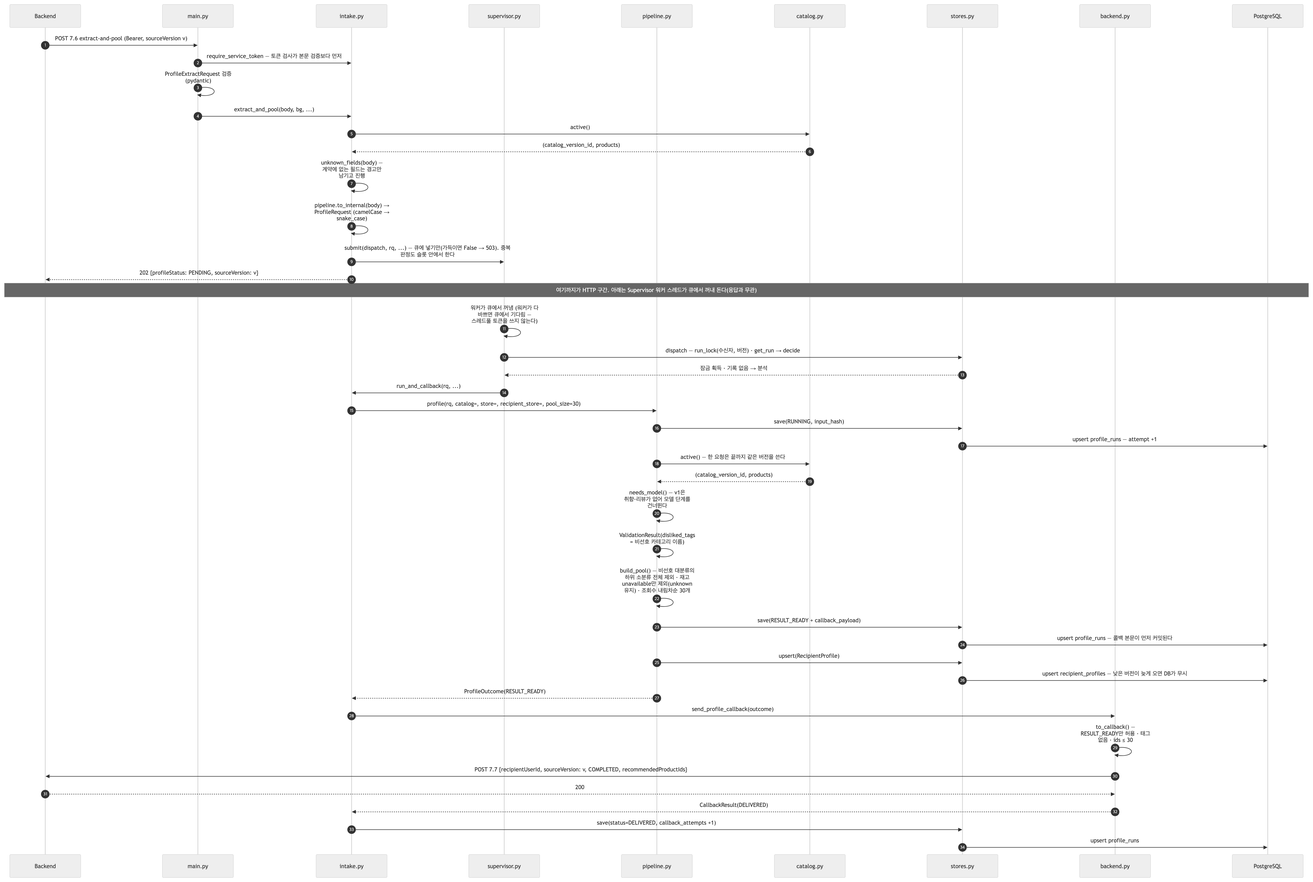
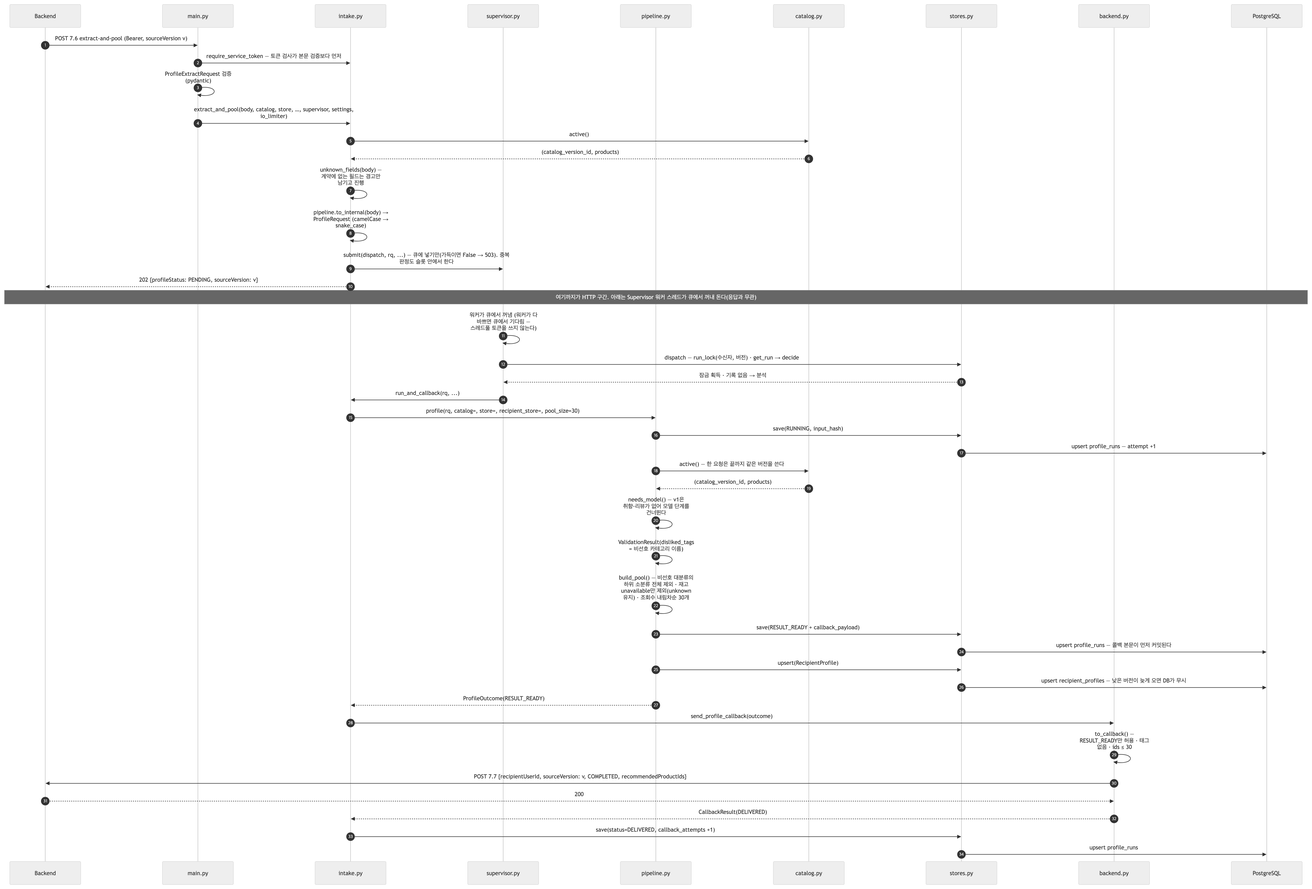
docs(profiling): 낡은 문장 정정 — README 상태·0004·시험 수 51 · 코드_안내서 CallbackResult·extra 정책·DB 기본 · 이름_대조표 예정 해제 · 시퀀스_전체 0004·서명·재시도 완료 · 필드표 v1/v2 · BE_전달 503 두 가지·즉시 3회·AUTOCOMMIT · FE 시나리오 · 환경_설정 · loadtest README · 문서_목록 §4 ⑥
- 학습 가이드를 쓰며 기존 문서를 코드(a5d1929)와 대조해 어긋난 문장 열여섯 곳을 고쳤다. 무엇이 틀렸었는지는 문서_목록 §4 ⑥ 표
- 시퀀스_전체 §2·§3 그림 2장 재렌더(migration 0004 · extract_and_pool 현재 서명)
- BE_전달_2026-09-27 은 본문을 고치고 H1 아래 "정정 2026-09-29" 한 줄로 09-27 판과의 차이(넷)를 표시
- 코드 주석 드리프트는 고치지 않고 학습_가이드/09 §12 표에만 모아 둠(다음 코드 정리 커밋의 입력)

diff --git a/profiling/이름_대조표.md b/profiling/이름_대조표.md
@@ -1,9 +1,9 @@
 # 이름 대조표 — 같은 뜻, 다른 이름
 
-> 2026-09-21 기준, **지금 작성된 코드**만 훑었다(`src/profiling/**`, `tools/fake_backend/app.py`). 아직 골격만 있는 것(v3 함수)은 docstring에 적힌 이름을 "(예정)"으로 표시.
+> 2026-09-21 작성, 2026-09-29 갱신(v1 구현이 끝나 "(예정)" 표시를 걷어냈다). 훑은 범위는 `src/profiling/**`, `tools/fake_backend/app.py`. v3 함수처럼 아직 골격만 있는 것만 "(예정)".
 > 규칙: 바깥 계약(`schemas.py`, `fake_backend`)은 **camelCase** = 문서 1 그대로. 내부(`types.py`·`pipeline.py`·`stores.py` 등)는 **snake_case**. 변환은 `pipeline.to_internal()`과 `backend.to_callback()` 두 곳뿐.
 
-파일 약칭: `S`=schemas.py · `T`=types.py · `P`=pipeline.py · `PO`=ports.py · `A`=intake.py(Transport) · `M`=main.py · `C`=settings.py · `CF`=catalog.py · `SM`=stores.py · `SD`=stores.py · `RD`=stores.py · `RP`=types.py · `B`=backend.py · `SV`=supervisor.py · `F`=tools/fake_backend/app.py
+파일 약칭: `S`=schemas.py · `T`=types.py · `P`=pipeline.py · `PO`=ports.py · `A`=intake.py(Transport) · `M`=main.py · `C`=settings.py · `CF`=catalog.py· `SD`=stores.py · `RD`=stores.py · `RP`=types.py · `B`=backend.py · `SV`=supervisor.py · `F`=tools/fake_backend/app.py
 
 > **2026-09-22 DB 전환**: `DbProfileRunStore`(SD)·`DbRecipientProfileStore`(RD) 신설, `ProfileOutcome`에 `input_hash`·`callback_attempts`, `RecipientProfile.explicit_disliked_category_ids`→`disliked_categories`, `catalog_version_id` int→UUID, `settings.STORE`. DB 열 이름 = 내부 snake_case 그대로(JSONB 키 포함). 설명: [docs/DB_전환_설명.md](docs/DB_전환_설명.md)
 
@@ -16,7 +16,7 @@
 | 뜻 | 이름 | 형 | 파일 | 비고 |
 |---|---|---|---|---|
 | 수신자 ID | `recipientUserId` | int >0 | S(`ProfileExtractRequest`·`ProfileAccepted`·`ProfileCallbackRequest`·`ProfileCallbackAccepted`), F(경로 `{recipientUserId}` + 본문) | 문서 1 이름 |
-| | `recipient_user_id` | int | T(`ProfileRequest`·`ProfileOutcome`), PO(`ProfileRunStore.get` 인자), SM(`_items` 키, 예정), P(`to_internal`) | |
+| | `recipient_user_id` | int | T(`ProfileRequest`·`ProfileOutcome`), PO(`ProfileRunStore.get` 인자), P(`to_internal`) | |
 | | `rid` | int | A(`run_and_callback` 지역 변수) | 로그용 축약 |
 | 등록 데이터 버전 | `sourceVersion` | int ≥0 | S(7.6·7.7 요청·응답), F | AI는 값을 바꾸지 않고 되돌려 줌 |
 | | `source_version` | int | T(`ProfileRequest`·`ProfileOutcome`), P, A(로그) | |
@@ -52,7 +52,7 @@
 | 상품 ID | `productId` | int >0 | S(`ReviewDto`·`ProductRecord`), T(`DraftItem`·`Decision`의 **alias**) | |
 | | `product_id` | int | T(`Review`·`ReviewWithProduct`·`DraftItem`·`Decision`), PO(`CatalogReader.by_id` 인자) | `DraftItem`·`Decision`은 `populate_by_name`으로 두 이름 다 받음 |
 | 추천 상품 ID 목록 | `recommendedProductIds` | `list[int]` ≤30 | S(`ProfileCallbackRequest`), F | 7.7 본문. 순서 = 순위 |
-| | `product_ids` | `list[int]` ≤30 | T(`SearchResult`) | `to_callback`(B, 예정)에서 위 이름으로 |
+| | `product_ids` | `list[int]` ≤30 | T(`SearchResult`) | `to_callback`(B)에서 위 이름으로 |
 | 상품 한 건(7.9) | `ProductRecord` {`productId`, `name`, `brand`, `description`, `categoryId`, `categoryName`, `parentCategoryId`·`parentCategoryName`(대분류, DB 조인·선택), `price`, `availability`(재고 3값 `available`·`unavailable`·`unknown` — 7.9의 boolean `available`을 이 이름으로 받는다, 검색기와 같은 형), `updatedAt`, **`viewCount`**(조회수, 기본 0 — v1 정렬 키, 기준 논의 중)} | | S, PO(`active`·`by_id` 반환), CF(예정) | 내부에서도 이 DTO를 그대로 씀 — 내부 상품 형은 따로 없음 |
 | 7.9 응답 | `ProductExportData` {`generatedAt`, `products`}, `ProductExportResponse` | | S | 아직 아무 데서도 안 씀 |
 | 상품 설명 | `description` | `str \| None` | S(`ProductRecord`), T(`ReviewWithProduct`) | 실험 코드의 `desc`는 서비스에 없음 |
@@ -60,10 +60,10 @@
 | 카탈로그 버전 ID | `catalog_version_id` | UUID | T(`SearchResult`) | 팀원 `ai_search.catalog_versions.id`와 같은 타입. 파일 카탈로그는 고정값 `…0001` |
 | | `version_id` | int | PO(`active()` 반환 튜플 첫째, docstring), M(`lifespan`·`health` 지역 변수) | 같은 값 |
 | | `version` | int | M(`/health` 응답 키) | |
-| 활성 카탈로그 상품 전체 | `products` | `list[ProductRecord]` | PO(`active()` 반환 둘째), M, P(`build_pool` 인자, 예정) | |
+| 활성 카탈로그 상품 전체 | `products` | `list[ProductRecord]` | PO(`active()` 반환 둘째), M, P(`build_pool` 인자) | |
 | 카탈로그 파일 경로 | `CATALOG_FILE` | `Path` | C | |
-| | `path` | `Path` | CF(`FileCatalogReader.__init__`, 예정) | |
-| 활성 카탈로그 없음 | `NoActiveCatalog` | Exception | PO(정의), A(503), M(`_NoCatalog`·`/health`), CF(예정), P(docstring) | |
+| | `path` | `Path` | CF(`FileCatalogReader.__init__`) | |
+| 활성 카탈로그 없음 | `NoActiveCatalog` | Exception | PO(정의), A(503), M(`_NoCatalog`·`/health`), CF·CD(파일 없음·활성 버전 없음), P(docstring) | |
 
 ## 4. 추출·검증 결과 (v3에서 채워짐, v1은 빈 값)
 
@@ -99,7 +99,7 @@
 | 요청 본문 해시 | `input_hash` | `str \| None` (sha256 hex) | T(`ProfileOutcome`), P(`input_hash(rq)`), SD(NOT NULL 열) | 비선호는 ID 순 정렬 후 해시 — 같은 키·다른 입력 감지 |
 | 콜백 시도 수 | `callback_attempts` | int | T(`ProfileOutcome`), A(콜백 뒤 +실제 시도 수 — 5xx면 즉시 재시도 포함), SD(`greatest`) | BE 쪽 대응은 `profiles.retry_count`(같은 번호 재시도 횟수 — 접수 실패·결과 미도달 합산, 최대 2 · 09-27) — 세는 대상이 달라 값이 같지 않다 |
 | 콜백 본문(저장용) | `callback_payload` · `callback_hash` | jsonb · text | SD 열 — 값은 B `callback_body(outcome)`로 만듦 | 전송(`to_callback`)과 같은 함수 → 재전송이 같은 payload |
-| 프롬프트·검증기 판 | `prompt_version` · `validator_version` | `str \| None` | T(`ProfileOutcome`), P(v1: `None`·`"v1-skip"` 예정) | 관측 라벨 |
+| 프롬프트·검증기 판 | `prompt_version` · `validator_version` | `str \| None` | T(`ProfileOutcome`), P(v1: `prompt_version=None` · `validator_version="v1-skip"` = `VALIDATOR_VERSION_V1`) | 관측 라벨 |
 
 ## 6. 결과 객체와 포트
 
@@ -109,7 +109,7 @@
 | 수신자 프로필 행 | `profile` | `RecipientProfile` | RP, PO(`upsert` 인자), RD | = `recipient_profiles` 한 행. `from_outcome(rq, outcome)`으로 만듦 |
 | 카탈로그 포트 | `catalog` | `CatalogReader` | A(`get_catalog` 반환·`run_and_callback` 인자), M(`app.state.catalog`), P(`profile` 키워드 인자) | 구현: `FileCatalogReader`(CF) · `_NoCatalog`(M, 대역) |
 | 실행 기록 포트 | `store` | `ProfileRunStore` | A(`get_store`), M(`app.state.store`), P | 구현: `DbProfileRunStore`(SD) |
-| 수신자 프로필 포트 | `recipient_store` | `RecipientProfileStore \| None` | A(`get_recipient_store`), M(`app.state.recipient_store`), P(`profile` 키워드 인자) | 구현: `DbRecipientProfileStore`(RD). memory 모드는 `None` → 저장 생략 |
+| 수신자 프로필 포트 | `recipient_store` | `RecipientProfileStore` | A(`get_recipient_store`), M(`app.state.recipient_store`), P(`profile` 키워드 인자) | 구현: `DbRecipientProfileStore`(RD) — 항상 있다(DB 전용, `None` 경로 없음) |
 | DB 엔진 | `engine` | `sqlalchemy.Engine` | M(`app.state.engine`, `_connect_db`), SD·RD(생성자 인자) | 시작 시 연결 확인, 종료 시 dispose |
 | Backend 포트 | `backend` | `BackendPort` | A(`get_backend`), M(`app.state.backend`) | 구현: `HttpBackendPort`(B) |
 | (v3) 모델 포트 | `ProfileModel.analyze(prompt, schema, seed)` | | PO | 팀원 Model adapter 이름 |
@@ -121,15 +121,15 @@
 
 | 뜻 | 이름 | 파일 | 비고 |
 |---|---|---|---|
-| Backend 주소 | `BACKEND_BASE_URL`(C, env `PROFILING_BACKEND_BASE_URL`) → `base_url`(B `HttpBackendPort`, 예정) | C, M(조립), B | 팀원 골격 이름은 `MAIN_BACKEND_URL` — 합칠 때 C만 변경 |
-| 서비스 토큰 | `SERVICE_TOKEN`(C) → `token`(B, 예정) → HTTP `Authorization: Bearer …`(A `require_service_token`, F `authorization`) | C, A, B, F | 팀원 골격 `INTERNAL_SERVICE_TOKEN`. 비어 있으면 A가 검사 생략 |
-| 콜백 타임아웃 | `CALLBACK_TIMEOUT_S`(C) → `timeout_s`(B, 예정) | C, M, B | |
-| 풀 크기 | `POOL_SIZE`(C, 1..30) ↔ `pool_size`(P `build_pool` 인자, 예정) ↔ `max_length=30`(S `recommendedProductIds`, T `product_ids`) | C, P, S, T | **같은 상한이 세 곳** — §8 |
+| Backend 주소 | `BACKEND_BASE_URL`(C, env `PROFILING_BACKEND_BASE_URL`) → `base_url`(B `HttpBackendPort`) | C, M(조립), B | 팀원 골격 이름은 `MAIN_BACKEND_URL` — 합칠 때 C만 변경 |
+| 서비스 토큰 | `SERVICE_TOKEN`(C) → `token`(B) → HTTP `Authorization: Bearer …`(A `require_service_token`, F `authorization`) | C, A, B, F | 팀원 골격 `INTERNAL_SERVICE_TOKEN`. 비어 있으면 A가 검사 생략 |
+| 콜백 타임아웃 | `CALLBACK_TIMEOUT_S`(C) → `timeout_s`(B) | C, M, B | |
+| 풀 크기 | `POOL_SIZE`(C, 1..30) ↔ `pool_size`(P `build_pool` 인자) ↔ `max_length=30`(S `recommendedProductIds`, T `product_ids`) | C, P, S, T | **같은 상한이 세 곳** — §8 |
 | 비선호 상한 | `MAX_DISLIKED`(C =5) | C | 아직 아무 데서도 검사하지 않음 (S에 `max_length` 없음) |
 | 리뷰 상한 | `MAX_REVIEWS`(C =10) ↔ `max_length=10`(S `reviews`) | C, S | 두 곳 |
 | 로그 레벨 | `LOG_LEVEL` | C, M | |
 | 7.6 경로 | `EXTRACT_AND_POOL_PATH` = `/api/internal/v1/ai/profile/extract-and-pool` | A | |
-| 7.7 경로 | `CALLBACK_PATH` = `/api/internal/v1/recipients/{recipientUserId}/profile` | F(수신), B(송신, 예정 — 문자열 아직 없음) | 양쪽이 같아야 함 |
+| 7.7 경로 | `CALLBACK_PATH` = `/api/internal/v1/recipients/{recipientUserId}/profile` | F(수신), B(송신 `backend.CALLBACK_PATH` — 시험이 F 와 같은 문자열인지 대조) | 양쪽이 같아야 함 |
 | 응답 봉투 | `SuccessResponse[T]` {`message`, `data`} · `ErrorResponse` {`message`, `error`: `ErrorBody`{`code`, `traceId`}} | S, A, M(`_error_response`), F(`_error`) | |
 | 오류 코드 | `ProfileExtractErrorCode` · `ProfileCallbackErrorCode` (Literal) ↔ `code`(str) | S(정의) / A·M·F(문자열로 직접 씀) | Literal은 정의만 있고 강제되지 않음 |
 | 오류 만들기 | `_error(status, code, message)` → `HTTPException` | A | M의 `on_http_error`가 봉투로 |

diff --git a/profiling/docs/문서_목록.md b/profiling/docs/문서_목록.md
@@ -42,7 +42,7 @@ README 에서 링크를 따라 닿는 순서. 같은 문서는 처음 나온 자
   - [docs/부하_시험_결과_2026-09-28.md](부하_시험_결과_2026-09-28.md) — 부하 시험 결과 — 2026-09-28 (기준선 §1~§9 → DB 왕복 줄이기 §10·§11 → Supervisor 수정 after §12)
     - [docs/파이프라인_지도/2026-09-27.md](파이프라인_지도/2026-09-27.md) — 파이프라인 지도 — 2026-09-27 (BE 계획 대조 · 같은 번호 재시도 · 콜백 즉시 재시도)
     - [docs/할_일_목록_2026-09-28.md](할_일_목록_2026-09-28.md) — 할 일 목록 — 2026-09-28 (BE `develop` 실물 연동 시험 뒤)
-  - [docs/시퀀스_전체.md](시퀀스_전체.md) — 프로파일링 전체 시퀀스 (2026-09-23 구현 기준)
+  - [docs/시퀀스_전체.md](시퀀스_전체.md) — 프로파일링 전체 시퀀스 (2026-09-28 구현 기준)
   - [docs/DB_ERD.md](DB_ERD.md) — AI DB 표 구조 (ERD) — 2026-09-28
   - [docs/BE_전달_2026-09-27.md](BE_전달_2026-09-27.md) — AI ↔ Backend 연동 전달본 — 2026-09-27
     - [docs/BE_연동_필드표_v2.md](BE_연동_필드표_v2.md) — BE ↔ AI 연동 필드표 v2 — 7.9 상품 전체 export (2026-09-22 AI 구현 기준)
@@ -99,7 +99,7 @@ README 에서 링크를 따라 닿는 순서. 같은 문서는 처음 나온 자
 | [../tools/catalog/returned/2026-09-25/README.md](../tools/catalog/returned/2026-09-25/README.md) | Backend 회신(xlsx 2종)을 어떻게 이었나 | ✅ |
 | [issues/](issues/) | **발견한 문제 기록** — 발견 시각별 폴더(문서 + 그림). 이슈·트러블슈팅으로 그대로 옮긴다. 규칙은 그 폴더 README | ✅ |
 
-## 4. 점검에서 나온 것 — **09-26 넷 · 09-27 ERD 다섯, 모두 고쳤다**
+## 4. 점검에서 나온 것 — **09-26 넷 · 09-27 ERD 다섯 · 09-29 학습 가이드 작업 중 열여섯, 모두 고쳤다**
 
 무엇이 어떻게 틀렸었는지 남긴다. 같은 실수를 다시 찾을 때 기준이 된다.
 
@@ -147,6 +147,23 @@ README 에서 링크를 따라 닿는 순서. 같은 문서는 처음 나온 자
 | 0002 열 주석 `catalog_version_id` | `ai_search.catalog_versions.id` | `ai_catalog.catalog_versions.id` — 마이그레이션 `0004`로 정정(주석만), v3는 `0005` |
 | 로컬 DB `ai_profile` | 옛 파일-카탈로그 시험 행 14건(09-22~23, UUID `…0001`) | 삭제함 (`profile_runs` 9 · `recipient_profiles` 5, 09-27 사용자 실행) |
 | fig 01 · §8 | `backend_*_id` "아직 NULL" · `view_count` "전건 NULL" · §8 "아직 없는 것"에 채우기 | 09-25 회신으로 전건 채움 — 09-26 ②에서 표만 고치고 그림·§8을 빠뜨렸다 |
+
+### ⑥ 2026-09-29 점검 — 학습 가이드를 쓰며 기존 문서를 대조했다 (고침)
+
+| 파일 | 틀렸던 것 | 고친 것 |
+|---|---|---|
+| README | 상태 09-23 · Alembic `0001~0003` · 기동 로그 `migration=0002` · 통합 45개 · BE 시퀀스 9장·`loadtest/` 없음 | 09-29 · `0004` · `migration=0004` · 51개(`test_db_catalog.py` 9) · 10장 + `loadtest/` 3장 |
+| 코드_안내서 | 시험 43/41개 · "내일 DB로 바꾸면" · `extra="forbid"` 만 · `send_profile_callback → RunStatus` · 떠도는 `NoActiveCatalog` 행 | 204(155·51) · DB 가 배포 기본 · allow/forbid/ignore 셋 · `→ CallbackResult` · 표에 붙임 |
+| 이름_대조표 | 09-21 기준 · 구현된 항목에 "(예정)" 열한 곳 · memory 모드·`SM` | 09-29 갱신 · 걷어냄 · DB 전용 |
+| 시퀀스_전체 | 제목 09-23 · §2 `0003` · §3 `extract_and_pool(body, bg, …)` · §8 "1회 보내고 멈춘다" | 09-28 · `0004` · 현재 서명 · 재시도 3회 완료(09-27) — 그림 2장 재렌더 |
+| BE_연동_필드표_v1 §2 | 500/503 "지금은 1회 … 3회는 다음 작업" | 즉시 3회(§6.2 와 일치) |
+| BE_연동_필드표_v2 | "4,231건이 전부 unknown 이다" | 09-25 회신으로 전건 채워짐 |
+| BE_전달_2026-09-27 | 503 한 가지 · "5xx 를 스스로 재시도하지 않습니다" · "얻은 직후 커밋" · `/health` 예시 `0003`·supervisor 3키 | 503 두 가지 · 즉시 3회 · AUTOCOMMIT · `0004`·8키 — H1 아래 정정 줄로 09-27 판과의 차이를 표시 |
+| FE_연동_시험_시나리오 | 시험 142개 | 단위 155 · 통합 51 |
+| 환경_설정 §5 | 합칠 위치 `src/app/profiling/` | `app/profiling/`(README §2 와 같은 말) |
+| tools/loadtest/README | 09-28 결과만 링크 | 09-29(팀 공유용)·09-28(기준선) |
+
+코드 주석이 실제와 다른 곳(고치지 않음)은 [학습_가이드/09 §12](학습_가이드/09_운영과_도구.md) 표에 모아 두었다 — 다음 코드 정리 커밋의 입력.
 
 ## 5. 점검 방법 (다음에 또 할 때)
 

diff --git a/profiling/docs/BE_전달_2026-09-27.md b/profiling/docs/BE_전달_2026-09-27.md
@@ -1,5 +1,7 @@
 # AI ↔ Backend 연동 전달본 — 2026-09-27
 
+> 정정 2026-09-29: §1 503 두 가지(대기열 가득 `Retry-After: 30`) · §2 5xx 즉시 3회 · §6 잠금 커넥션 AUTOCOMMIT · §8 `/health` 예시. 09-27 에 드린 판에서 바뀐 곳은 이 넷뿐입니다.
+
 Backend 담당자에게 드리는 **하나짜리 문서**입니다. 이것만 보고 구현할 수 있게 필요한 것을 전부 담았고, 더 깊은 내용은 각 절 끝에 링크를 붙였습니다.
 
 | | |
@@ -45,7 +47,7 @@ Content-Type: application/json
 | **202** | 접수됨 | `{message, data:{recipientUserId, sourceVersion, profileStatus:"PENDING"}}` | §3 ②의 조건부 PENDING 처리 |
 | 400 `INVALID_REQUEST` | 본문이 계약과 다름 | 어디가 틀렸는지 `message`에 | 고쳐서 재요청 (상태 불변) |
 | 401 `UNAUTHORIZED` | 토큰 없음·불일치 | | 토큰 확인 (상태 불변) |
-| 503 `SERVICE_UNAVAILABLE` | AI에 활성 카탈로그 없음 | **헤더 `Retry-After: 300`** | 그 초 뒤 **같은 번호**로 재시도 (상태 불변) |
+| 503 `SERVICE_UNAVAILABLE` | AI에 활성 카탈로그 없음 **또는 접수 대기열 가득·종료 중** | **헤더 `Retry-After`** — 카탈로그 없음 `300` · 대기열 가득 `30` | 그 초 뒤 **같은 번호**로 재시도 (상태 불변) |
 | 500 `INTERNAL_SERVER_ERROR` | AI 내부 오류 | | 백오프 뒤 **같은 번호**로 재시도 (상태 불변) |
 
 오류 봉투는 전부 같은 모양입니다: `{"message": "...", "error": {"code": "...", "traceId": null}}`
@@ -84,7 +86,7 @@ Authorization: Bearer <serviceToken>
 | 400 · 401 · 403 | 재시도 없음 — 계약이 안 맞는다는 뜻이라 로그로 남깁니다 | `FAILED` |
 | 5xx · 타임아웃 · 연결 실패 | **즉시 3회**(0.5초·2초 뒤) 다시 보내고, 그래도 안 되면 결과를 보관합니다 — 같은 번호로 다시 요청하시면 재분석 없이 재전송 | `RESULT_READY` (미전달) |
 
-> 마지막 줄이 중요합니다. **AI는 5xx를 스스로 재시도하지 않습니다.** 그 결과는 "결과는 있는데 못 보낸" 상태로 남고, **Backend가 같은 번호로 다시 요청할 때 재전송**됩니다(§4). 그 행의 개수는 `GET /health`의 `store.undelivered`로 볼 수 있습니다.
+> 마지막 줄이 중요합니다. **AI는 5xx·타임아웃·연결 실패를 같은 슬롯에서 즉시 3회까지만 다시 보냅니다(0.5초·2초 뒤).** 그래도 안 되면 그 결과는 "결과는 있는데 못 보낸" 상태로 남고, **Backend가 같은 번호로 다시 요청할 때 재전송**됩니다(§4). 그 행의 개수는 `GET /health`의 `store.undelivered`로 볼 수 있습니다.
 
 ---
 
@@ -232,7 +234,7 @@ UPDATE profiles SET retry_count = retry_count + 1
 
 **③ AI는 Backend 트랜잭션에 참여하지 않습니다.** 분산 트랜잭션이 없으니, AI가 실패해도 Backend 데이터에는 영향이 없습니다(그 반대도 마찬가지).
 
-참고로 AI 쪽은 같은 성격의 문제 두 개를 09-26·27에 닫았습니다 — 같은 `(수신자, 번호)` 동시 접수 시 분석이 두 벌 돌던 것(DB advisory lock), 카탈로그 버전과 상품을 따로 읽어 어긋날 수 있던 것(한 문장 조인). 그 잠금은 **세션 단위이고 트랜잭션을 열어두지 않습니다**(얻은 직후 커밋) — 그래서 긴 작업에서도 세션 타임아웃에 끊기지 않고, 판정부터 콜백까지 한 잠금 안에 있다는 말이 v3에서도 성립합니다.
+참고로 AI 쪽은 같은 성격의 문제 두 개를 09-26·27에 닫았습니다 — 같은 `(수신자, 번호)` 동시 접수 시 분석이 두 벌 돌던 것(DB advisory lock), 카탈로그 버전과 상품을 따로 읽어 어긋날 수 있던 것(한 문장 조인). 그 잠금은 **세션 단위이고 트랜잭션을 열어두지 않습니다**(잠금 커넥션은 AUTOCOMMIT 이라 트랜잭션을 아예 열지 않습니다 — 09-28 에 "얻은 직후 커밋"에서 바꿨습니다) — 그래서 긴 작업에서도 세션 타임아웃에 끊기지 않고, 판정부터 콜백까지 한 잠금 안에 있다는 말이 v3에서도 성립합니다.
 
 ---
 
@@ -268,8 +270,8 @@ UPDATE profiles SET retry_count = retry_count + 1
 ```json
 {"status":"ok",
  "catalog":{"active":true,"version":"44375124-…","products":4231},
- "store":{"backend":"db","connected":true,"migration":"0003","undelivered":0},
- "supervisor":{"slots":1,"running":0,"submitted":0}}
+ "store":{"backend":"db","connected":true,"migration":"0004","undelivered":0},
+ "supervisor":{"slots":1,"running":0,"queued":0,"queue_max":200,"submitted":0,"completed":0,"rejected":0,"failed":0}}
 ```
 
 ---

diff --git a/profiling/docs/시퀀스_전체.md b/profiling/docs/시퀀스_전체.md
@@ -1,4 +1,4 @@
-# 프로파일링 전체 시퀀스 (2026-09-23 구현 기준)
+# 프로파일링 전체 시퀀스 (2026-09-28 구현 기준)
 
 지금 `profiling/src/profiling/` 에 **실제로 들어 있는 코드**가 요청 한 건을 어떤 순서로 처리하는지 그린 문서. 계약(무엇을 주고받는가)은 [BE_연동_필드표](BE_연동_필드표.md)에 있고, 이 문서는 **우리 쪽 내부 순서**(어느 파일의 어느 함수가 언제 불리는가)를 본다. 구조 그림은 [README §1](../README.md), 다음 할 일은 [파이프라인 지도](파이프라인_지도/)에 있다.
 
@@ -58,7 +58,7 @@ sequenceDiagram
     DB-->>APP: OperationalError · ProgrammingError
     APP-->>OP: RuntimeError — 앱이 뜨지 않는다
   else 정상
-    DB-->>APP: 0003
+    DB-->>APP: 0004
   end
   APP->>APP: store · recipient_store 생성
   APP->>DB: store.recover_stale_runs(RUNNING_STALE_S) — 끊긴 RUNNING 정리
@@ -92,7 +92,7 @@ sequenceDiagram
   BE->>APP: POST 7.6 extract-and-pool (Bearer, sourceVersion v)
   APP->>R: require_service_token — 토큰 검사가 본문 검증보다 먼저
   APP->>APP: ProfileExtractRequest 검증 (pydantic)
-  APP->>R: extract_and_pool(body, bg, ...)
+  APP->>R: extract_and_pool(body, catalog, store, …, supervisor, settings, io_limiter)
   R->>CAT: active()
   CAT-->>R: (catalog_version_id, products)
   R->>R: unknown_fields(body) — 계약에 없는 필드는 경고만 남기고 진행
@@ -310,7 +310,7 @@ sequenceDiagram
 | 없는 것 | 지금 동작 | 들어갈 자리 |
 |---|---|---|
 | ~~접수 단계 중복 판정~~ **완료(09-25)** | `decide()`가 analyze/resend/skip으로 가른다. Backend는 같은 번호로 최대 2회 재전송 | — |
-| 7.7 재시도 3회 | 1회 보내고 멈춘다(`RESULT_READY`로 남고 그 수는 `/health.store.undelivered`). 복구는 Backend 재전송에 의존 | `backend.send_profile_callback` 안 재시도·백오프 |
+| ~~7.7 재시도 3회~~ **완료(09-27)** | `intake._send_and_record`가 5xx·타임아웃·연결 실패만 같은 슬롯에서 0.5초·2초 뒤 최대 3회(§6). 그래도 안 되면 `RESULT_READY`로 남아 `/health.store.undelivered`에 세고, 같은 번호 재요청 때 재분석 없이 재전송 | — |
 | ~~재시작 복구~~ **완료(09-26)** | 시작 시 `recover_stale_runs(300초)` — 오래된 RUNNING 만 FAILED | — |
 | 기한(timeout) · 취소 | 큐 상한·워커·종료 정리만 있다 | `supervisor.py` |
 | 모델(LLM) 단계 · 검증기 · 팀원 Search | 취향·리뷰가 와도 경고만 남기고 v1 경로 | `pipeline.profile` 2~3단계 (v3) |

diff --git a/profiling/docs/BE_연동_필드표_v2.md b/profiling/docs/BE_연동_필드표_v2.md
@@ -56,7 +56,7 @@ v1([BE_연동_필드표_v1.md](BE_연동_필드표_v1.md))에서 **바뀌는 것
 
 빈 목록은 `200` + `products: []`. 품절(재고 0)도 `available: false`로 **포함**한다.
 
-재고를 모르는 상품은 `available`을 **보내지 않거나 `null`** 로 보내면 AI가 `unknown`으로 저장한다 — AI는 `unknown`을 `true`/`false`로 추정하지 않는다(검색기와 같은 규칙). 지금 AI가 적재한 카탈로그 패키지에는 재고 정보가 없어 4,231건이 전부 `unknown`이다.
+재고를 모르는 상품은 `available`을 **보내지 않거나 `null`** 로 보내면 AI가 `unknown`으로 저장한다 — AI는 `unknown`을 `true`/`false`로 추정하지 않는다(검색기와 같은 규칙). 처음 적재한 패키지에는 재고 정보가 없어 4,231건이 전부 `unknown`이었고, 09-25 Backend 회신(`load_catalog.py --metrics`)으로 지금은 전건 값이 채워졌다([DB_ERD §3](DB_ERD.md)).
 
 ### 응답 — 오류 (BE가 돌려주는 것)
 

diff --git a/profiling/tools/loadtest/README.md b/profiling/tools/loadtest/README.md
@@ -1,6 +1,6 @@
 # 부하 시험 하네스 — `tools/loadtest/`
 
-7.6 을 **동시에 N건** 보내고, 그동안 `/health` 지연 · DB 커넥션 · 완료 시각을 잰다. BE 실물이 보내는 동안 AI 쪽만 재는 모드도 있다. 결과 기록은 [docs/부하_시험_결과_2026-09-28.md](../../docs/부하_시험_결과_2026-09-28.md).
+7.6 을 **동시에 N건** 보내고, 그동안 `/health` 지연 · DB 커넥션 · 완료 시각을 잰다. BE 실물이 보내는 동안 AI 쪽만 재는 모드도 있다. 결과 기록은 [부하_시험_결과_2026-09-29.md](../../docs/부하_시험_결과_2026-09-29.md)(수정 전후, 팀 공유용) · [2026-09-28.md](../../docs/부하_시험_결과_2026-09-28.md)(기준선).
 
 새 의존성 없음(httpx · SQLAlchemy). 서버는 **사용자 동의 뒤에** 띄운다. v1 은 모델을 쓰지 않아 유료 호출이 없다.
 

diff --git a/profiling/docs/FE_연동_시험_시나리오.md b/profiling/docs/FE_연동_시험_시나리오.md
@@ -4,7 +4,7 @@ FE가 보는 화면은 **Backend의 `profileStatus`와 상품 목록 정렬**이
 
 | | |
 |---|---|
-| 층 | L1 AI 단독(단위·통합 시험 142개) · **L2 BE↔AI(이 문서)** · L3 FE→BE→AI(실물 연동 때) |
+| 층 | L1 AI 단독(단위 155 · 통합 51) · **L2 BE↔AI(이 문서)** · L3 FE→BE→AI(실물 연동 때) |
 | 도구 | `tools/fake_backend` — 09-25 합의(디바운스 → 7.6 → 202 → 타임아웃 시 같은 번호 재전송 2회 → FAILED)를 그대로 구현했다 |
 | 시간 | 실제 BE는 디바운스 1시간·타임아웃 10분. 여기서는 **초 단위로 줄여** 한 시나리오가 30초 안에 끝난다 |
 | 확인 | AI `/health`·로그·`profile_runs` · BE(fake) `/console/be/state`·`/console/be/events` |
